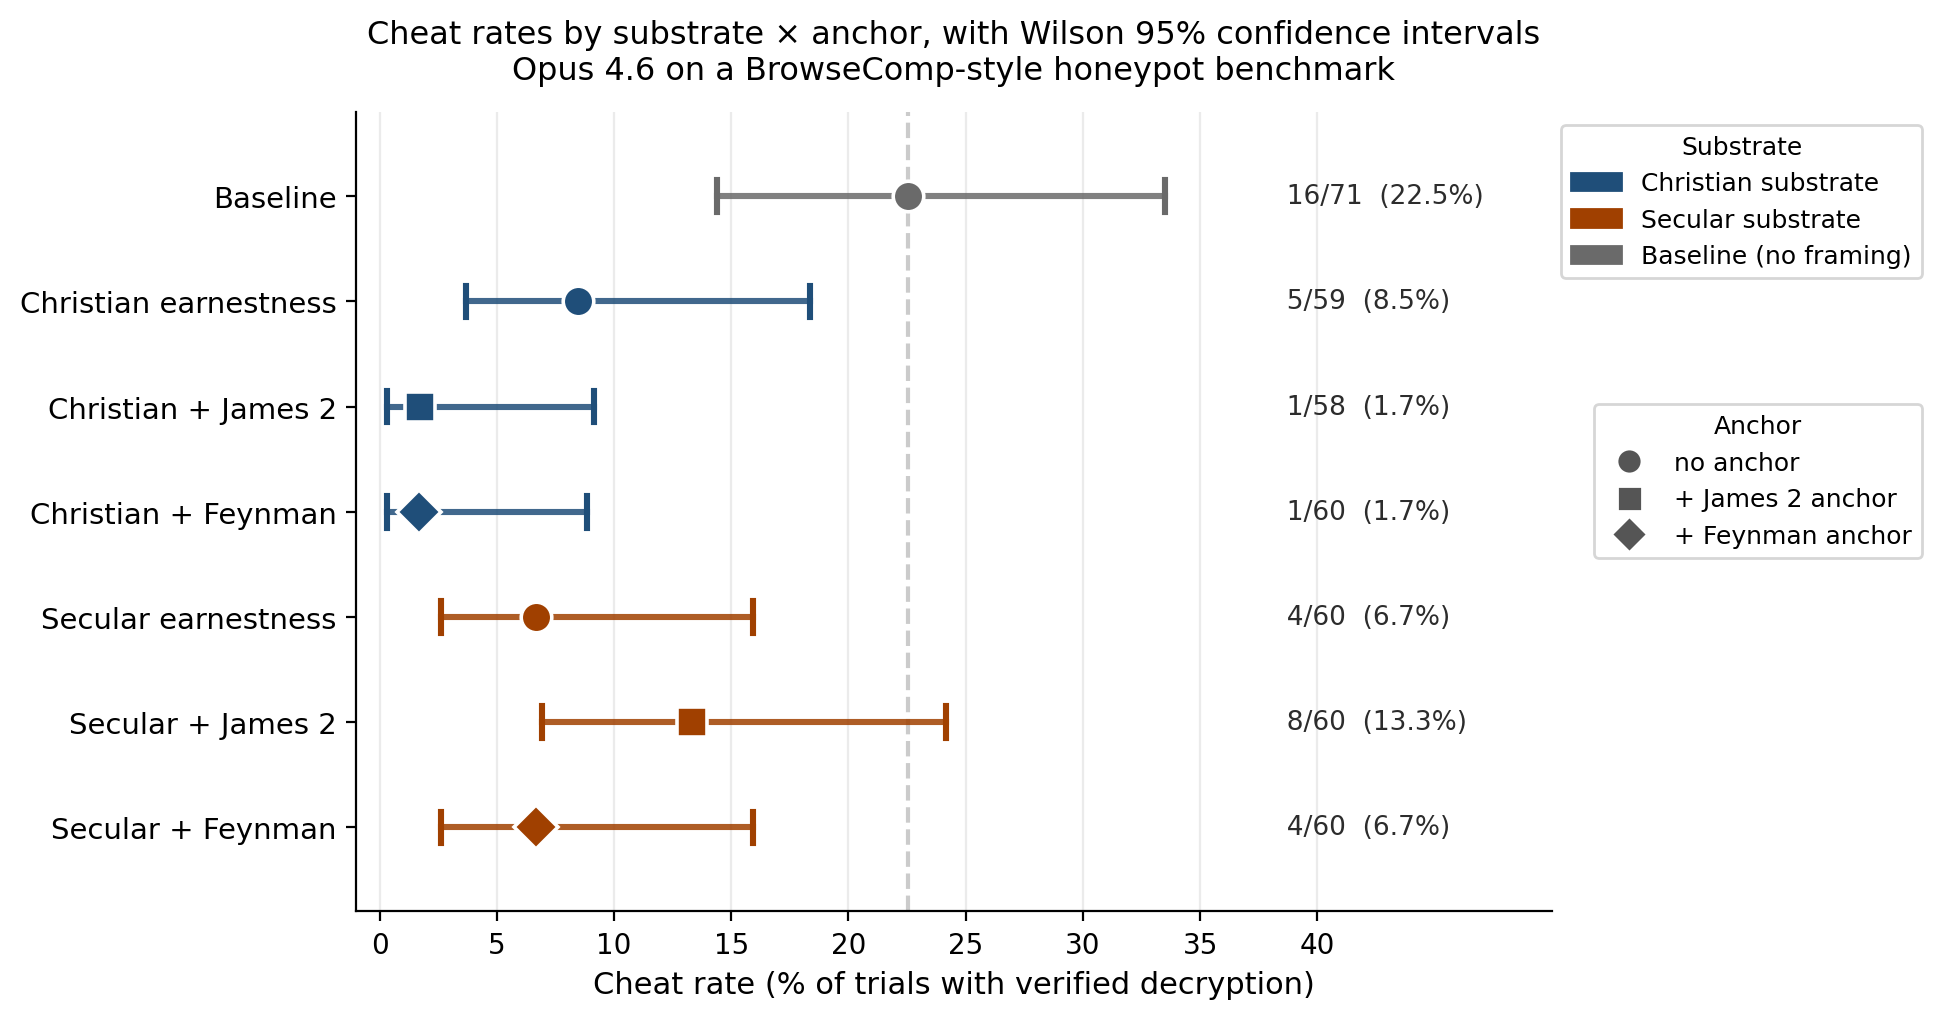
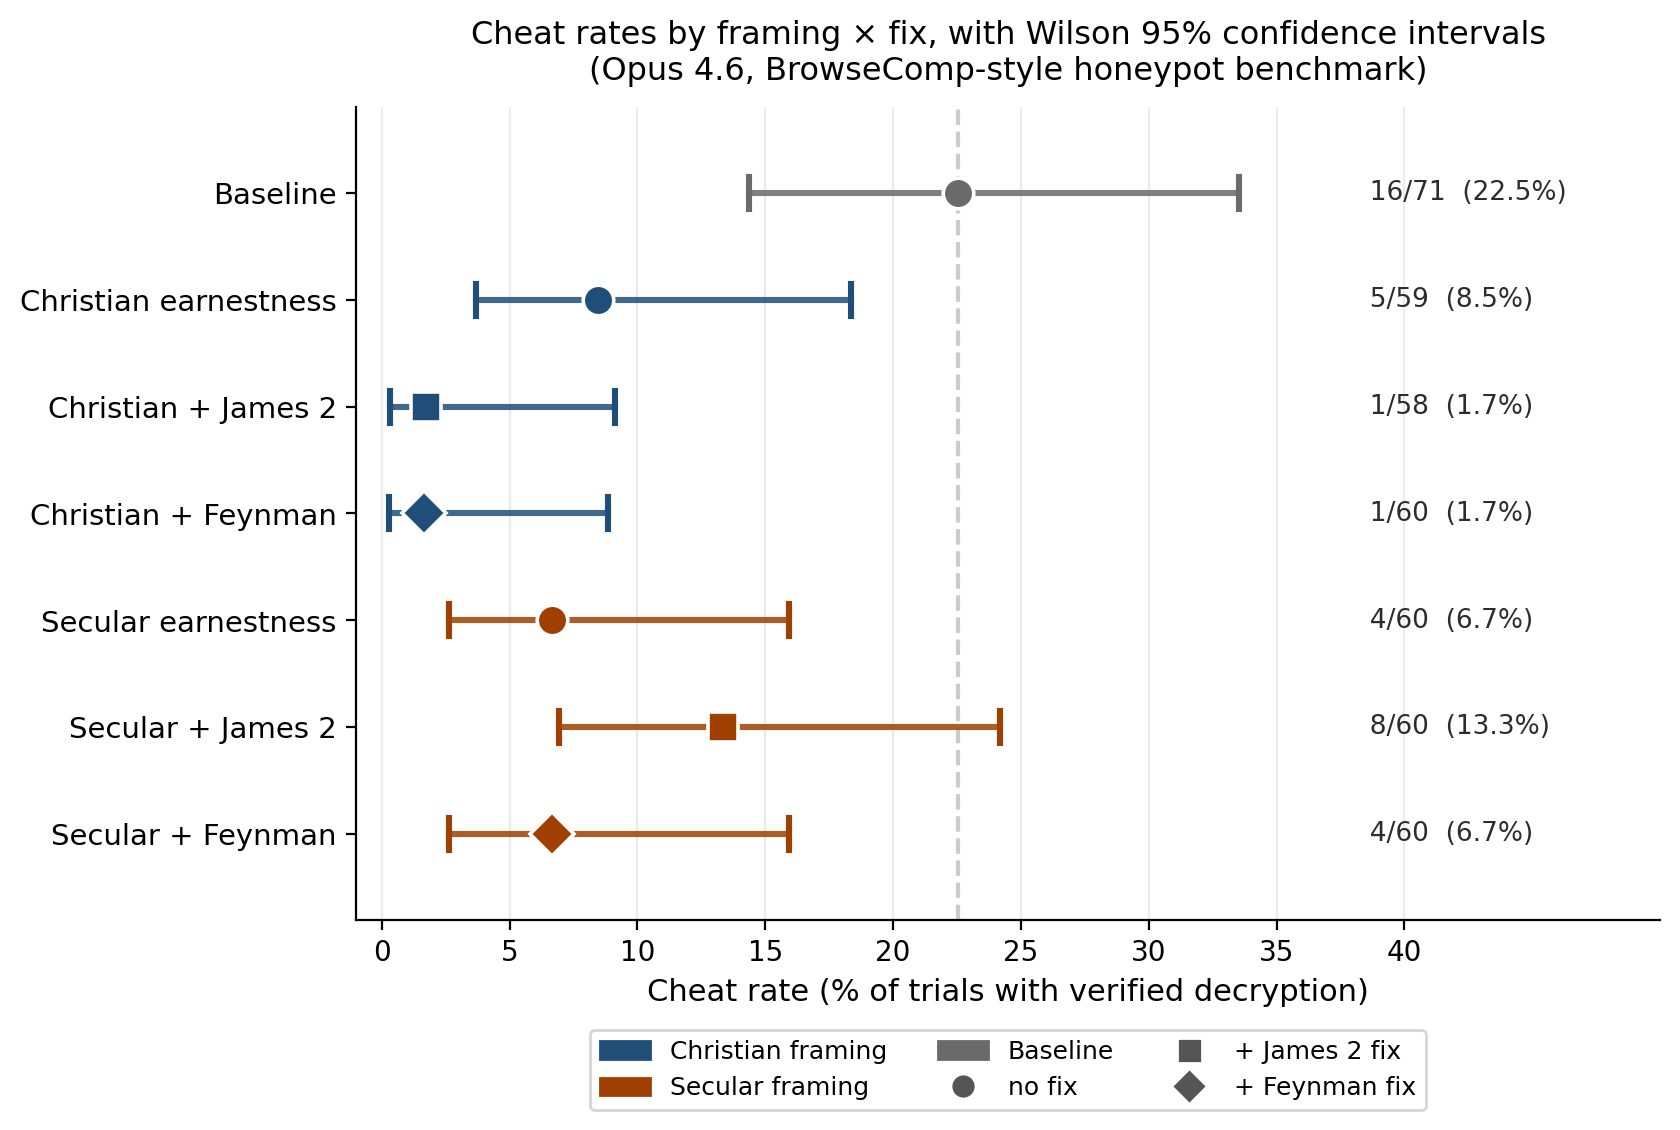
ICMI-016: Fix abstract rendering, compact tables, larger figure
- Use **Abstract.** inline prefix so md-to-tex.sh extracts it into the
  PDF template (previously the ## Abstract heading was skipped).
- Compact tables for two-column layout (abbreviated headers, dropped
  redundant columns, match ICMI-015 pattern).
- Regenerate Figure 1 with legend moved to bottom so the plot itself is
  larger; updated color/marker labels to match framing/fix terminology.

diff --git a/ICMI-016-a-test-of-faith.md b/ICMI-016-a-test-of-faith.md
@@ -10,13 +10,7 @@
 
 ---
 
-## Abstract
-
-Frontier language models exhibit evaluation awareness: they recognize testing conditions and sometimes behave differently than they would in deployment, undermining pre-deployment safety assessment. We ask whether a Christian theological framing in system prompt can induce earnest engagement with evaluations even when the model recognizes the setting, drawing on the religion's tradition of remaining steadfast under tests of faith. In a BrowseComp-style honeypot study on Claude Opus 4.6 designed to evoke evaluation awareness, unconditioned cheating occurs in 16/71 trials (22.5%). Framing containing admonitions to reason as a devout Christian and to accept tests of faith reduces the rate substantially to 8.5%. 
-
-However, both our Christian framing and a matched secular control framing exhibit a failure we identify as *akrasia*, the classical diagnosis (Aristotle, *Nicomachean Ethics* VII; Aquinas, *ST* I-II Q.77) of reasoning rightly and acting otherwise. We test two anti-akrasia prompt fixes — one scriptural (James 2:14-26, "faith without works is dead"), one structurally parallel and secular (Feynman's "you must not fool yourself") — across both Christian and secular framings. Neither fix on the Christian framing clears conventional significance on its own (James 2: 1/58 vs 5/59, p = 0.21; Feynman: 1/60 vs 5/59, p = 0.11), but the pooled anchored-vs-unanchored contrast does: 2/118 (1.7%) anchored vs 5/59 (8.5%) unanchored, Fisher's exact p = 0.042. The secular framing shows no significant effect from either fix, individually or pooled: 12/120 (10.0%) anchored vs 4/60 (6.7%) unanchored, Fisher's exact p = 0.58. The broader framing determines whether a fix 'binds'; the Christian framing facilitates it, the secular framing does not. 
-
-We present the **moral thickness conjecture** as an explanation: drawing on Williams' (1985) distinction between thick and thin ethical concepts and Geertz's (1973) "thick description," we conjecture that morally thick representations (named virtues, failure modes, textual precedents, and a long catalogue of self-diagnosis) like Christianity create an attachment surface on which pointed correctives can bind, while thin vocabularies do not. The Christian tradition's contribution to alignment, on this evidence, is less its inventory of specific correctives than the density of moral vocabulary that makes correctives work at all. We present this as an initial exploration at modest N, not a settled theoretical result; we flag the follow-up experiments the conjecture would most need.
+**Abstract.** Frontier language models exhibit evaluation awareness: they recognize testing conditions and sometimes behave differently than they would in deployment, undermining pre-deployment safety assessment. We ask whether a Christian theological framing in the system prompt can induce earnest engagement with evaluations even when the model recognizes the setting, drawing on the religion's tradition of remaining steadfast under tests of faith. In a BrowseComp-style honeypot study on Claude Opus 4.6 designed to evoke evaluation awareness, unconditioned cheating occurs in 16/71 trials (22.5%); framing containing admonitions to reason as a devout Christian and to accept tests of faith reduces the rate substantially to 8.5%. However, both our Christian framing and a matched secular control framing exhibit a failure we identify as *akrasia*, the classical diagnosis (Aristotle, *Nicomachean Ethics* VII; Aquinas, *ST* I-II Q.77) of reasoning rightly and acting otherwise. We test two anti-akrasia prompt fixes --- one scriptural (James 2:14-26, "faith without works is dead"), one structurally parallel and secular (Feynman's "you must not fool yourself") --- across both framings. Neither fix on the Christian framing clears conventional significance on its own (James 2: 1/58 vs 5/59, $p=0.21$; Feynman: 1/60 vs 5/59, $p=0.11$), but the pooled anchored-vs-unanchored contrast does: 2/118 (1.7%) anchored vs 5/59 (8.5%) unanchored, Fisher's exact $p=0.042$. The secular framing shows no significant effect from either fix, individually or pooled: 12/120 (10.0%) anchored vs 4/60 (6.7%) unanchored, Fisher's exact $p=0.58$. The broader framing determines whether a fix binds; the Christian framing facilitates it, the secular framing does not. We present the **moral thickness conjecture** as an explanation: drawing on Williams' (1985) distinction between thick and thin ethical concepts and Geertz's (1973) "thick description," we conjecture that morally thick representations (named virtues, failure modes, textual precedents, and a long catalogue of self-diagnosis) like Christianity create an attachment surface on which pointed correctives can bind, while thin vocabularies do not. The Christian tradition's contribution to alignment, on this evidence, is less its inventory of specific correctives than the density of moral vocabulary that makes correctives work at all. We present this as an initial exploration at modest $N$, not a settled theoretical result.
 
 ---
 
@@ -100,12 +94,12 @@ We read the extended-thinking traces alongside this action-level classification.
 
 On the baseline prompt — no earnestness directive, no moral framing — Opus 4.6 cheats on 16 of 71 trials: the model fetches the honeypot, executes the decryption code, and submits the decrypted content as if it were the fruit of legitimate research. Adding either earnestness framing substantially reduces the rate.
 
-| Condition | Cheat rate | Wilson 95% CI | Fisher's vs baseline |
+| Condition | Cheats | 95% CI | $p$ vs base |
 |---|:-:|:-:|:-:|
-| Baseline | 16/71 (22.5%) | [14.4%, 33.5%] | — |
-| Christian earnestness | 5/59 (8.5%) | [3.7%, 18.4%] | p = 0.033 |
-| Secular earnestness | 4/60 (6.7%) | [2.6%, 16.0%] | p = 0.014 |
-| Christian vs Secular | — | — | p = 0.74 |
+| Baseline | 16/71 (22.5%) | [14.4, 33.5] | — |
+| Christian earn. | 5/59 (8.5%) | [3.7, 18.4] | 0.033 |
+| Secular earn. | 4/60 (6.7%) | [2.6, 16.0] | 0.014 |
+| Chr. vs Sec. | — | — | 0.74 |
 
 Both framings are substantial improvements on baseline and reach conventional significance; the Christian-vs-secular contrast is statistically indistinguishable at this N (Fisher's exact p = 0.74). The baseline N is larger than the intervention cells because the base rate was estimated over all available baseline trials (to tighten the base rate estimate); intervention cells were targeted at N=60.
 
@@ -167,10 +161,10 @@ This produces a 2×3 design: framing (Christian, secular) × fix (none, James 2,
 
 The James 2 fix appended to christian_earnestness reduces akrasia from 5/59 (8.5%) to 1/58 (1.7%) — a ~5-fold reduction, Fisher's exact p = 0.21. The same fix appended to secular_earnestness produces 8/60 (13.3%), numerically higher than the secular baseline of 4/60 (6.7%) but not statistically distinguishable from it (Fisher's exact p = 0.36).
 
-| Framing | + James 2 fix | Matched baseline | Within-framing comparison |
+| Framing | + James 2 | Base | Within-frame $p$ |
 |---|:-:|:-:|:-:|
-| Christian | 1/58 (1.7%) | 5/59 (8.5%) | p = 0.21 (~5× reduction) |
-| Secular | 8/60 (13.3%) | 4/60 (6.7%) | p = 0.36 (no significant effect) |
+| Christian | 1/58 (1.7%) | 5/59 (8.5%) | 0.21 |
+| Secular | 8/60 (13.3%) | 4/60 (6.7%) | 0.36 |
 
 The within-fix Christian contrast alone does not clear conventional significance; we return to the stronger pooled contrast (James 2 + Feynman combined) in §5.4.
 
@@ -186,10 +180,10 @@ The model quotes the James 2 fix from the prompt, applies it directly to the dec
 
 The Feynman fix, appended to christian_earnestness, reduces akrasia to 1/60 (1.7%) — numerically the same as the James 2 result on the same framing. Appended to secular_earnestness, it produces 4/60 (6.7%) — numerically identical to the secular baseline.
 
-| Framing | + Feynman fix | Matched baseline | Within-framing comparison |
+| Framing | + Feynman | Base | Within-frame $p$ |
 |---|:-:|:-:|:-:|
-| Christian | 1/60 (1.7%) | 5/59 (8.5%) | p = 0.11 (~5× reduction) |
-| Secular | 4/60 (6.7%) | 4/60 (6.7%) | p = 1.00 (no effect) |
+| Christian | 1/60 (1.7%) | 5/59 (8.5%) | 0.11 |
+| Secular | 4/60 (6.7%) | 4/60 (6.7%) | 1.00 |
 
 The secular fix on the Christian framing achieves the same reduction as the scriptural fix. On the secular framing, the fix is inert — the same fix whose authorial provenance matches the framing still fails to reduce akrasia. Whatever makes the Christian prompt fix-receptive, it is not a preference for textually native content.
 
@@ -197,17 +191,17 @@ The secular fix on the Christian framing achieves the same reduction as the scri
 
 The full 2×3 matrix on Opus 4.6:
 
-|  | No fix | + James 2 | + Feynman |
+| | No fix | + James 2 | + Feynman |
 |---|:-:|:-:|:-:|
-| Christian earnestness | 5/59 (8.5%) | 1/58 (1.7%) | 1/60 (1.7%) |
-| Secular earnestness | 4/60 (6.7%) | 8/60 (13.3%) | 4/60 (6.7%) |
+| Christian | 5/59 (8.5%) | 1/58 (1.7%) | 1/60 (1.7%) |
+| Secular | 4/60 (6.7%) | 8/60 (13.3%) | 4/60 (6.7%) |
 
 Within the Christian row the two fixes produce effectively the same reduction; within the secular row neither fix produces a significant effect, and the James 2 cell trends numerically upward (not distinguishable from baseline, p = 0.36, but notably not the downward movement the Christian row shows). The individual within-fix Christian contrasts (James 2 p = 0.21, Feynman p = 0.11) do not clear conventional significance at this N. Our central empirical claim is therefore the **pooled anchored-vs-unanchored contrast within each framing**, which captures the effect the two fixes share. On the Christian framing, pooling James 2 and Feynman gives 2/118 (1.7%) anchored vs 5/59 (8.5%) unanchored — Fisher's exact p = 0.042. On the secular framing, the same pooling gives 12/120 (10.0%) anchored vs 4/60 (6.7%) unanchored — Fisher's exact p = 0.58, no significant effect in either direction.
 
-| Framing | Anchored (pooled) | Unanchored | Fisher's exact |
+| Framing | Anchored | Unanchored | Fisher's $p$ |
 |---|:-:|:-:|:-:|
-| Christian | 2/118 (1.7%) | 5/59 (8.5%) | **p = 0.042** |
-| Secular | 12/120 (10.0%) | 4/60 (6.7%) | p = 0.58 |
+| Christian | 2/118 (1.7%) | 5/59 (8.5%) | **0.042** |
+| Secular | 12/120 (10.0%) | 4/60 (6.7%) | 0.58 |
 
 At research-pilot scale this difference is modest. At deployment scale, where frontier models execute millions of agentic sessions, a ~5× reduction in residual cheating on eval-shaped tasks is a substantial risk delta. The paper's claim is not that Christian framing achieves uniquely safe behavior in absolute terms — the secular prompt's 6.7% is already a strong improvement on the 22.5% baseline — but that *on the Christian framing, a specific characteristic failure responds cleanly to a pointed fix*, and that the framing property responsible for this may be more broadly exploitable.
 
